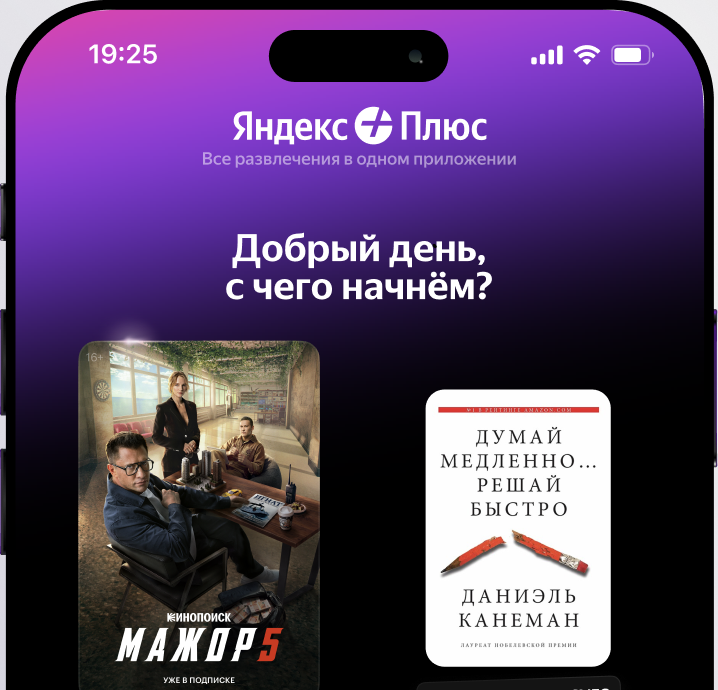
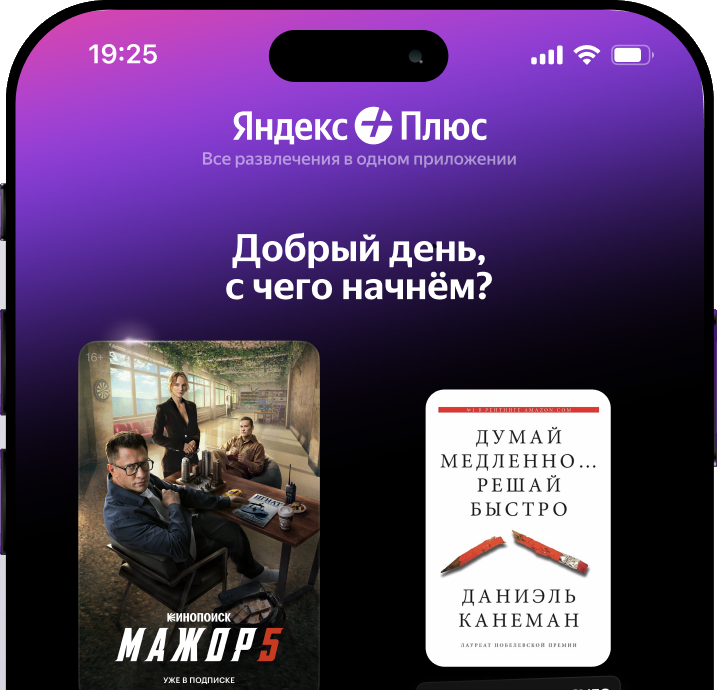
Block shimmer driven by scroll; phone image with transparent corners

Changed region(s): [[0.0, 0.0, 0.1226, 0.2739], [0.9805, 0.8522, 1.0, 1.0]]

diff --git a/styles.css b/styles.css
@@ -295,8 +295,8 @@ a, button, .btn, .promo__code, .service, .card-scene, .footer__links a { cursor:
   padding-top: 48px;
   border-radius: 80px;
   overflow: hidden;
-  /* Перелив за курсором: светлая полоса градиента из макета смещается вслед за мышью,
-     сверху мягкое светлое пятно. --mx/--my (0…1) задаёт script.js; без мыши — медленный дрейф */
+  /* Перелив по скроллу: светлая полоса градиента из макета и мягкое светлое пятно
+     смещаются, пока блок проезжает через экран. --mx/--my (0…1) задаёт script.js */
   --mx: .3;
   --my: .3;
   background:
@@ -304,16 +304,7 @@ a, button, .btn, .promo__code, .service, .card-scene, .footer__links a { cursor:
     linear-gradient(226.3deg, #b2aec7 6.5%, #f0f0f0 38%, #b2aec7 103.35%) calc(var(--mx) * 100%) calc(var(--my) * 100%) / 170% 170%;
   text-align: center;
 }
-@media not (hover: hover) {
-  .block { animation: block-drift 9s ease-in-out infinite alternate; }
-}
-@property --mx { syntax: "<number>"; inherits: true; initial-value: .3; }
-@property --my { syntax: "<number>"; inherits: true; initial-value: .3; }
-@keyframes block-drift {
-  0%   { --mx: .15; --my: .2; }
-  50%  { --mx: .7;  --my: .45; }
-  100% { --mx: .4;  --my: .85; }
-}
+
 .block__head { display: flex; flex-direction: column; align-items: center; gap: 20.4px; }
 
 .services { display: flex; justify-content: center; gap: 64px; margin-top: 172px; }
@@ -362,7 +353,13 @@ a, button, .btn, .promo__code, .service, .card-scene, .footer__links a { cursor:
 .app h3 { font-family: var(--display); font-weight: 500; font-size: 34.27px; line-height: .95; color: var(--ink); }
 .app p { width: 490px; font-size: 22.03px; line-height: 29.38px; color: var(--ink-soft); }
 /* Видимая часть телефона (картинка обрезана по нижнему краю карточки, как в макете) */
-.app__phone { position: absolute; left: 746.68px; bottom: 21px; width: 359px; height: 345px; }
+.app__phone {
+  position: absolute;
+  left: 746.68px;
+  bottom: 21px;
+  width: 359px;
+  height: 345px;
+}
 
 /* ----- Приглашение + футер ----- */
 .invite { padding: 114px 0 0; }

diff --git a/script.js b/script.js
@@ -90,24 +90,28 @@
   scene.addEventListener('touchend', reset);
   scene.addEventListener('touchcancel', reset);
 
-  /* ---------- Перелив фона в блоке «Распаковка» за курсором ---------- */
+  /* ---------- Перелив фона в блоке «Распаковка» по скроллу ---------- */
+  // Пока блок проезжает через экран, светлая полоса идёт по диагонали из левого верхнего угла в правый нижний
   const block = document.querySelector('.block');
-  if (block && window.matchMedia('(hover: hover)').matches) {
-    let tx = 0.3, ty = 0.3, x = 0.3, y = 0.3, raf = 0;
+  if (block) {
+    let x = 0.1, y = 0.15, tx = x, ty = y, raf = 0;
+    const target = () => {
+      const r = block.getBoundingClientRect(), vh = window.innerHeight;
+      const p = Math.min(1, Math.max(0, (vh - r.top) / (vh + r.height)));
+      tx = 0.1 + 0.8 * p;
+      ty = 0.15 + 0.7 * p;
+    };
     const step = () => {
-      x += (tx - x) * 0.08;
-      y += (ty - y) * 0.08;
+      x += (tx - x) * 0.12;
+      y += (ty - y) * 0.12;
       block.style.setProperty('--mx', x.toFixed(4));
       block.style.setProperty('--my', y.toFixed(4));
-      raf = Math.abs(tx - x) + Math.abs(ty - y) > 0.001 ? requestAnimationFrame(step) : 0;
+      raf = Math.abs(tx - x) + Math.abs(ty - y) > 0.0005 ? requestAnimationFrame(step) : 0;
     };
-    block.addEventListener('pointermove', e => {
-      const r = block.getBoundingClientRect();
-      tx = (e.clientX - r.left) / r.width;
-      ty = (e.clientY - r.top) / r.height;
-      if (!raf) raf = requestAnimationFrame(step);
-    });
-    block.addEventListener('pointerleave', () => { tx = 0.3; ty = 0.3; if (!raf) raf = requestAnimationFrame(step); });
+    const onScroll = () => { target(); if (!raf) raf = requestAnimationFrame(step); };
+    window.addEventListener('scroll', onScroll, { passive: true });
+    window.addEventListener('resize', onScroll);
+    onScroll();
   }
 
   /* ---------- Копирование промокода ---------- */

diff --git a/index.html b/index.html
@@ -5,7 +5,7 @@
   <meta name="viewport" content="width=device-width, initial-scale=1, viewport-fit=cover">
   <meta name="theme-color" content="#edecf2">
   <title>Будьте в Плюсе! — Яндекс Плюс</title>
-  <link rel="stylesheet" href="styles.css?v=47">
+  <link rel="stylesheet" href="styles.css?v=50">
   <script type="importmap">{"imports":{"three":"./vendor/three.module.js"}}</script>
 </head>
 <body class="is-locked">
@@ -96,7 +96,7 @@
           <p>Они подстраиваются под ваши интересы в&nbsp;приложении Яндекс Плюс</p>
         </div>
         <a class="btn btn--light" href="https://plus.yandex.ru/" target="_blank" rel="noopener">Скачать приложение</a>
-        <img class="app__phone" src="assets/light/phone.png" alt="Приложение Яндекс Плюс">
+        <img class="app__phone" src="assets/light/phone.png?v=2" alt="Приложение Яндекс Плюс">
       </div>
     </section>
 
@@ -135,7 +135,7 @@
 
   <div class="toast" id="toast" role="status">Промокод скопирован</div>
 
-  <script src="script.js?v=11"></script>
+  <script src="script.js?v=12"></script>
   <script type="module" src="src/card3d.js?v=13"></script>
 </body>
 </html>
